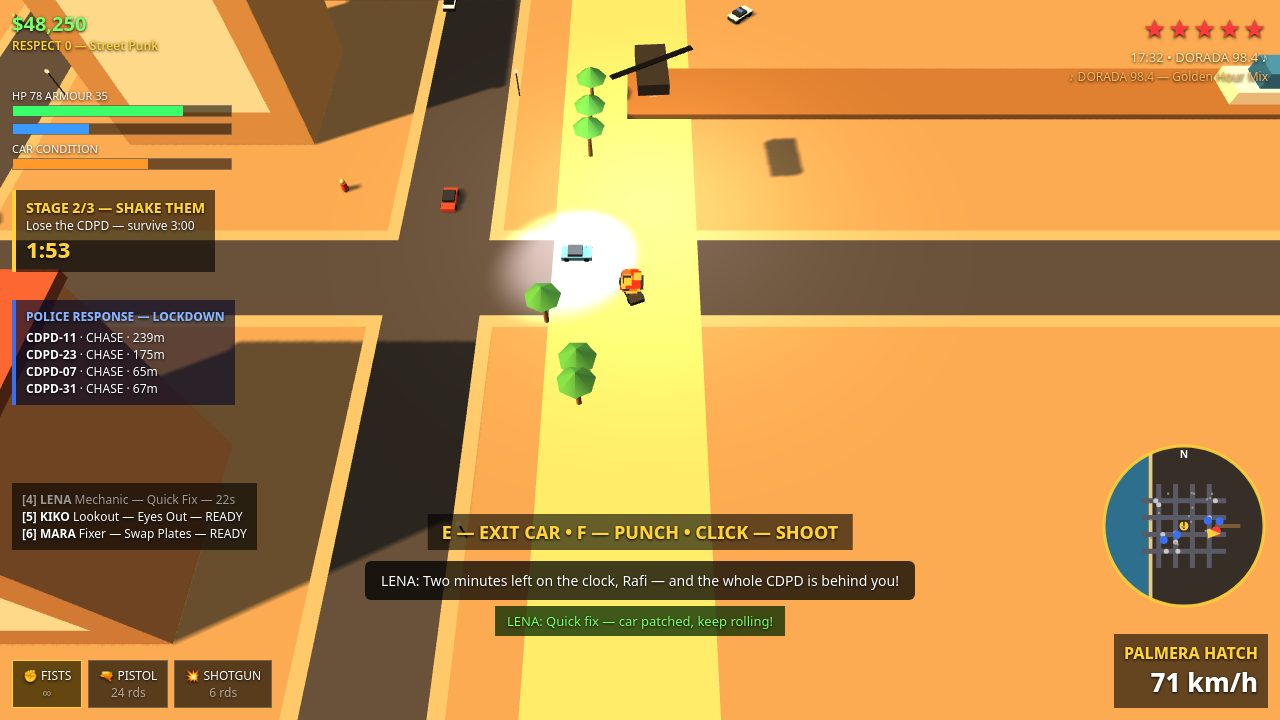
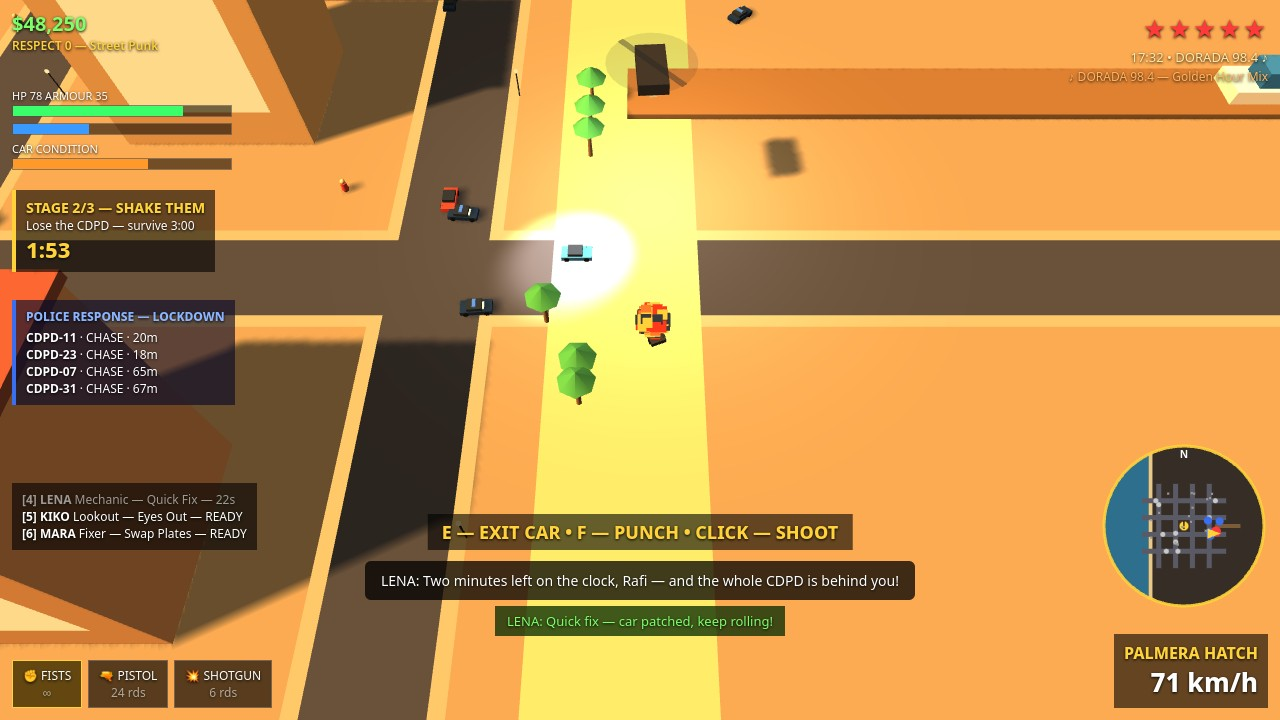
Polish: fix police-ram crash, wanted decay, police/rotor readability, closer roadblock + chaos shots
- police.js: guard S.playerCar after damageCar in ram (killing ram nulled
  it and threw); add 1s shared ram-immunity so 4 units cannot delete the
  car in seconds; wanted now rises only on stage entry, so the 20s-unseen
  decay and Mara plate swap actually stick
- render3d.js: police roof stripe narrowed so units read dark navy from
  above; heli rotor translucent + faint disc (no more black scratch in
  frozen frames); spotlight 3 -> 2.2; shadow map 2048 -> 1024; explosion
  particles 2.4 -> 3.0; staged shots may set S.cam.height/back
- shots.js: chaos gains 2 close chase units + bigger explosion; roadblock
  camera closer (height 68) and HP re-asserted after the drive
- main.js: __dbg gains angle/speed/condition/hp/timer/money/nearest-car
- full playtest: 14/15 phases pass, 0 console errors, 0 page errors,
  46 local-only requests; mission completes, save persists across reload

diff --git a/game/src/render3d.js b/game/src/render3d.js
@@ -32,7 +32,8 @@ function carMesh(color, police) {
   if (police) {
     const bar = box(1.4, 0.25, 0.5, 0x3a6ff2, 0, 1.6, -0.2, false);
     bar.name = 'lightbar'; g.add(bar);
-    g.add(box(2.3, 0.15, 4.7, 0xffffff, 0, 0.95, 0, false));
+    // narrow white roof stripe: the dark navy body must still read from above
+    g.add(box(1.3, 0.15, 2.4, 0xd8d8d8, 0, 0.95, 0, false));
   }
   return g;
 }
@@ -64,7 +65,7 @@ export function createRenderer(canvas) {
   sun = new THREE.DirectionalLight(0xffb45e, 1.5);
   sun.position.set(-120, 140, 60);
   sun.castShadow = true;
-  sun.shadow.mapSize.set(2048, 2048);
+  sun.shadow.mapSize.set(1024, 1024);
   sun.shadow.camera.left = -260; sun.shadow.camera.right = 260;
   sun.shadow.camera.top = 260; sun.shadow.camera.bottom = -260;
   sun.shadow.camera.far = 500;
@@ -77,7 +78,7 @@ export function createRenderer(canvas) {
   particleGeo = new THREE.BufferGeometry();
   particleGeo.setAttribute('position', new THREE.BufferAttribute(new Float32Array(MAXP * 3), 3));
   particleGeo.setAttribute('color', new THREE.BufferAttribute(new Float32Array(MAXP * 3), 3));
-  particlePts = new THREE.Points(particleGeo, new THREE.PointsMaterial({ size: 2.4, vertexColors: true }));
+  particlePts = new THREE.Points(particleGeo, new THREE.PointsMaterial({ size: 3.0, vertexColors: true }));
   particlePts.frustumCulled = false;
   scene.add(particlePts);
   for (let i = 0; i < 40; i++) {
@@ -197,8 +198,14 @@ function syncDyn(S) {
     if (!dyn.has('heli')) {
       const h = new THREE.Group();
       h.add(box(4, 1.6, 8, 0x2a2a2a, 0, 0, 0, true));
-      const rotor = box(12, 0.15, 0.8, 0x111111, 0, 1.1, 0, false);
-      rotor.name = 'rotor'; h.add(rotor);
+      // rotor: translucent blur bar + faint disc, so a frozen frame never shows
+      // a solid black scratch across the player car
+      const rotorMat = new THREE.MeshBasicMaterial({ color: 0x222222, transparent: true, opacity: 0.45 });
+      const rotor = new THREE.Mesh(new THREE.BoxGeometry(12, 0.15, 0.8), rotorMat);
+      rotor.position.set(0, 1.1, 0); rotor.name = 'rotor'; h.add(rotor);
+      const disc = new THREE.Mesh(new THREE.CircleGeometry(6, 24),
+        new THREE.MeshBasicMaterial({ color: 0x222222, transparent: true, opacity: 0.12, side: THREE.DoubleSide }));
+      disc.rotation.x = -Math.PI / 2; disc.position.y = 1.12; h.add(disc);
       h.add(box(1, 1, 1, 0xffffff, 0, -1, 3, false));
       dyn.set('heli', h);
     }
@@ -208,7 +215,7 @@ function syncDyn(S) {
     if (rotor) rotor.rotation.y += 0.9;
     spotLight.position.set(S.heli.x, 26, S.heli.z);
     spotLight.target.position.set(S.player.x, 0, S.player.z);
-    spotLight.intensity = 3;
+    spotLight.intensity = 2.2;
     heliLight.position.set(S.heli.x, 24, S.heli.z);
     heliLight.intensity = 1.2;
   } else {
@@ -240,10 +247,13 @@ export function render(S, dt) {
   particleGeo.attributes.position.needsUpdate = true;
   particleGeo.attributes.color.needsUpdate = true;
   syncDyn(S);
-  // camera: top-down fixed angle following S.cam, plus shake
+  // camera: top-down fixed angle following S.cam, plus shake.
+  // A staged shot may set S.cam.height / S.cam.back for a closer framing.
   const sh = S.shake || 0;
   const sx = Math.sin(S.elapsed * 127.1) * sh, sz = Math.cos(S.elapsed * 149.7) * sh;
-  camera.position.set(S.cam.x + sx, CFG.cameraHeight, S.cam.z + CFG.cameraBack + sz);
+  const camH = S.cam.height || CFG.cameraHeight;
+  const camBack = S.cam.back || CFG.cameraBack;
+  camera.position.set(S.cam.x + sx, camH, S.cam.z + camBack + sz);
   camera.lookAt(S.cam.x + sx, 0, S.cam.z + sz);
   sun.position.set(S.cam.x - 120, 140, S.cam.z + 60);
   sun.target.position.set(S.cam.x, 0, S.cam.z);

diff --git a/game/src/shots.js b/game/src/shots.js
@@ -105,14 +105,17 @@ export function stageShot(name, S) {
     }
     const victim = S.cars.find((c) => !c.dead && !c.police && c !== S.playerCar);
     if (victim) {
-      victim.x = 149; victim.z = 43; victim.angle = 0.4;
+      victim.x = 152; victim.z = 50; victim.angle = 0.4;
       explodeCar(S, victim);
-      spawnExplosion(victim.x, victim.z, 60, S.rng);
+      spawnExplosion(victim.x, victim.z, 90, S.rng);
     }
     S.wanted = 5;
     S.stage = 2; S.stageTimer = 114;
     S.heli.active = true;
     S.heli.x = S.player.x + 12; S.heli.z = S.player.z - 10;
+    // two chase units right behind Rafi so the pursuit reads in frame
+    const chasers = S.police.filter((c) => c.role !== 'roadblock' && !c.dead).slice(0, 2);
+    chasers.forEach((c, i) => { c.x = 122 + i * 4; c.z = 28 + i * 18; c.angle = Math.PI / 2; c.speed = 16; });
     S.money = 48250;
     S.player.health = 78; S.player.armour = 35;
     // frame the action: look south-east of the player so Rafi sits upper-left
@@ -136,13 +139,16 @@ export function stageShot(name, S) {
     S.money = 48250;
     driveRoute(S, [[148, 0]], 60 * 10);
     // final framing at the pier mouth: Rafi's car facing the roadblock, pistol out,
-    // muzzle flash frozen, heli spotlight overhead, Don Celso's line on screen
+    // muzzle flash frozen, heli spotlight overhead, Don Celso's line on screen.
+    // Camera sits close over the roadblock so the three units fill the centre
+    // of the frame instead of reading as distant specks.
     if (!S.playerCar) stealNearest(S);
     const pc = S.playerCar;
     if (pc) {
       pc.x = 132; pc.z = 0; pc.angle = Math.PI / 2; pc.speed = 14; pc.health = 38;
       S.player.x = pc.x; S.player.z = pc.z; S.player.angle = pc.angle;
     }
+    S.player.health = 46; S.player.armour = 12;
     const blocks = S.police.filter((c) => c.role === 'roadblock' && !c.dead);
     blocks.forEach((c, i) => {
       c.x = 150 + (i % 2) * 4; c.z = -8 + i * 8; c.angle = Math.PI / 2; c.speed = 0;
@@ -151,7 +157,7 @@ export function stageShot(name, S) {
     chasers.forEach((c, i) => { c.x = 118 + i * 6; c.z = -14 + i * 28; c.angle = Math.PI / 2; });
     S.muzzle = 5;
     // frame the action: look east so Rafi sits left and the roadblock fills the centre
-    S.cam.x = S.player.x + 25; S.cam.z = S.player.z + 10;
+    S.cam.x = 146; S.cam.z = 0; S.cam.height = 68; S.cam.back = 42;
     settle(S, 2);
     return;
   }

diff --git a/game/src/police.js b/game/src/police.js
@@ -27,8 +27,11 @@ function spawnUnit(S, role) {
   return car;
 }
 export function stepPolice(S, dt) {
+  if (S.ramImmune > 0) S.ramImmune -= dt;
   const want = wantedTarget(S);
-  if (want > S.wanted && S.stage > 0) S.wanted = want;
+  // Raise wanted only when a new stage starts. Raising it every step would
+  // instantly undo the unseen-decay below and Mara's plate swap.
+  if (want > S.wanted && S.wantedStage !== S.stage) { S.wanted = want; S.wantedStage = S.stage; }
   // spawn / despawn to match wanted level
   const need = S.wanted === 0 ? 0 : S.wanted <= 1 ? 1 : S.wanted <= 2 ? 2 : S.wanted <= 3 ? 3 : 4;
   while (S.police.filter((c) => !c.dead).length < need) spawnUnit(S, S.wanted >= 3 ? 'chase' : 'patrol');
@@ -70,13 +73,17 @@ export function stepPolice(S, dt) {
       car.angle += Math.max(-2.2 * dt, Math.min(2.2 * dt, da));
       const target = S.wanted >= 3 ? 24 : 17;
       car.speed += (target - car.speed) * dt * 0.8;
-      // ram the player car (cooldown so one unit cannot grind it down)
+      // ram the player car: per-unit cooldown plus a short shared immunity
+      // window, so four units piling on cannot delete the car in seconds
       if (car.ramCd > 0) car.ramCd -= dt;
-      if (dist < 4.5 && S.playerCar && (car.ramCd || 0) <= 0) {
+      if (dist < 4.5 && S.playerCar && (car.ramCd || 0) <= 0 && (S.ramImmune || 0) <= 0) {
         damageCar(S, S.playerCar, 12);
         car.ramCd = 1.5;
         car.speed *= 0.6;
-        S.playerCar.speed *= 0.85;
+        S.ramImmune = 1.0;
+        // damageCar can explode the player car, which clears S.playerCar —
+        // re-check before touching it, or this line throws
+        if (S.playerCar) S.playerCar.speed *= 0.85;
       }
       if (dist < 3 && S.player.onFoot && car.speed < 3) {
         S.player.health -= 1.5 * dt;

diff --git a/game/src/main.js b/game/src/main.js
@@ -32,6 +32,21 @@ function paint() {
     camx: Math.round(S.cam.x), camz: Math.round(S.cam.z),
     wanted: S.wanted, stage: S.stage, screen: S.screen,
     deadPos: S.cars.filter((c) => c.dead).map((c) => [Math.round(c.x), Math.round(c.z)]),
+    ang: S.playerCar ? S.playerCar.angle : S.player.angle,
+    spd: S.playerCar ? Math.abs(S.playerCar.speed) : 0,
+    cond: S.playerCar ? Math.round(S.playerCar.health) : null,
+    hp: Math.round(S.player.health),
+    timer: S.stage === 2 ? Math.round(S.stageTimer) : null,
+    money: S.money,
+    near: (() => {
+      let best = null, bd = 1e9;
+      for (const c of S.cars) {
+        if (c.dead || c.police) continue;
+        const d = Math.hypot(c.x - S.player.x, c.z - S.player.z);
+        if (d < bd) { bd = d; best = c; }
+      }
+      return best ? { x: Math.round(best.x), z: Math.round(best.z), d: Math.round(bd) } : null;
+    })(),
   };
   if (S.screen === 'title') showTitle(S);
   else if (S.screen === 'results') showResults(S);

diff --git a/game/src/world.js b/game/src/world.js
@@ -28,7 +28,7 @@ export function createWorld(seed) {
     player: { x: -60, z: 40, angle: 0, health: 100, armour: 50, onFoot: true, carId: null, nearCar: null, moving: false, punchTimer: 0 },
     cars: [], peds: [], police: [],
     playerCar: null,
-    wanted: 0, wantedTimer: 0, sirenTimer: 0,
+    wanted: 0, wantedTimer: 0, wantedStage: 0, sirenTimer: 0, ramImmune: 0,
     stage: 1, stageTimer: CFG.stage2Time, missionDone: false, failed: false,
     reward: 0, rankUp: false, upgradeNote: '',
     money: save.money, respect: save.respect,
